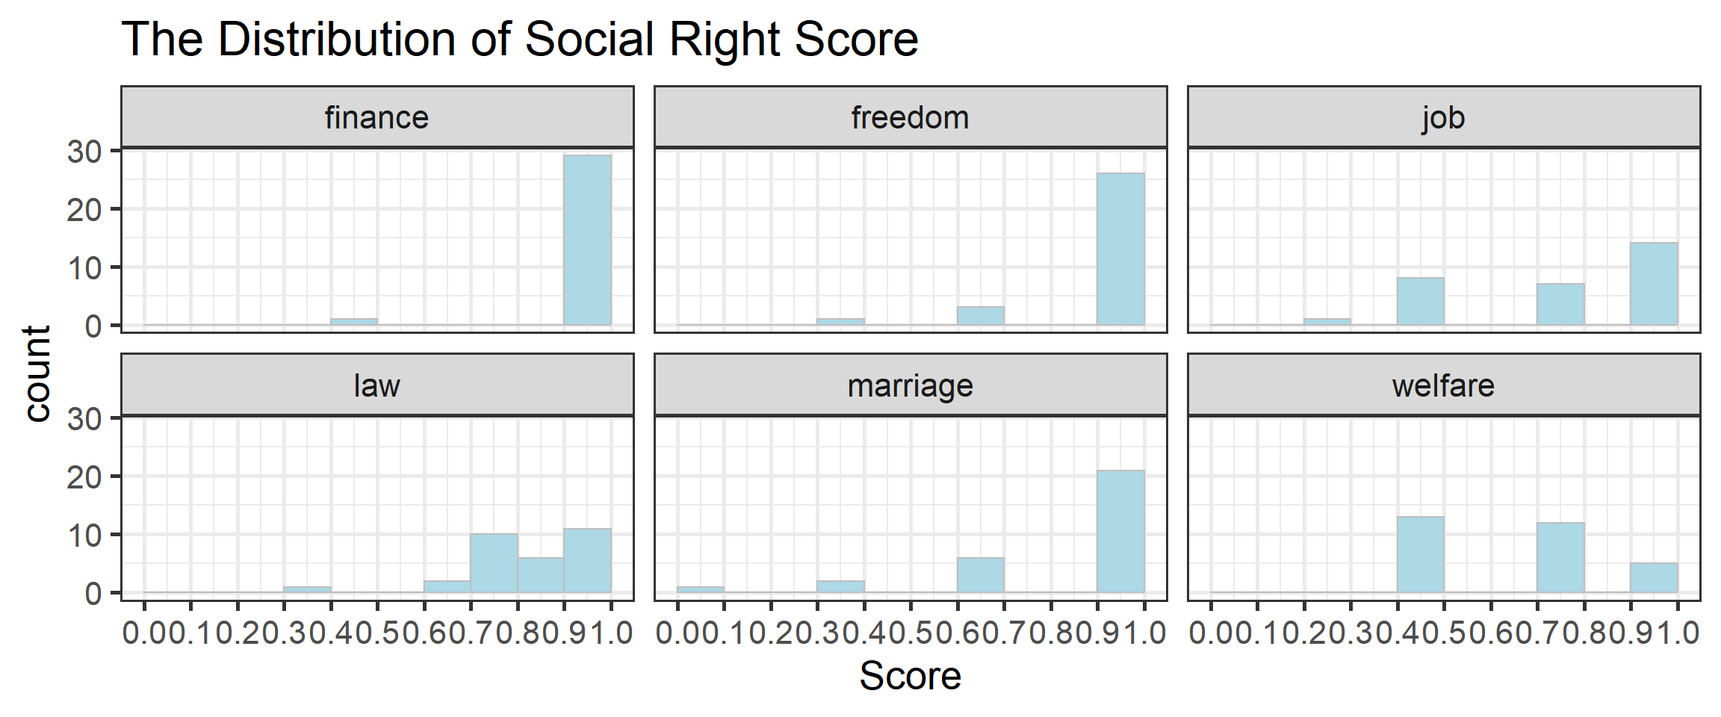
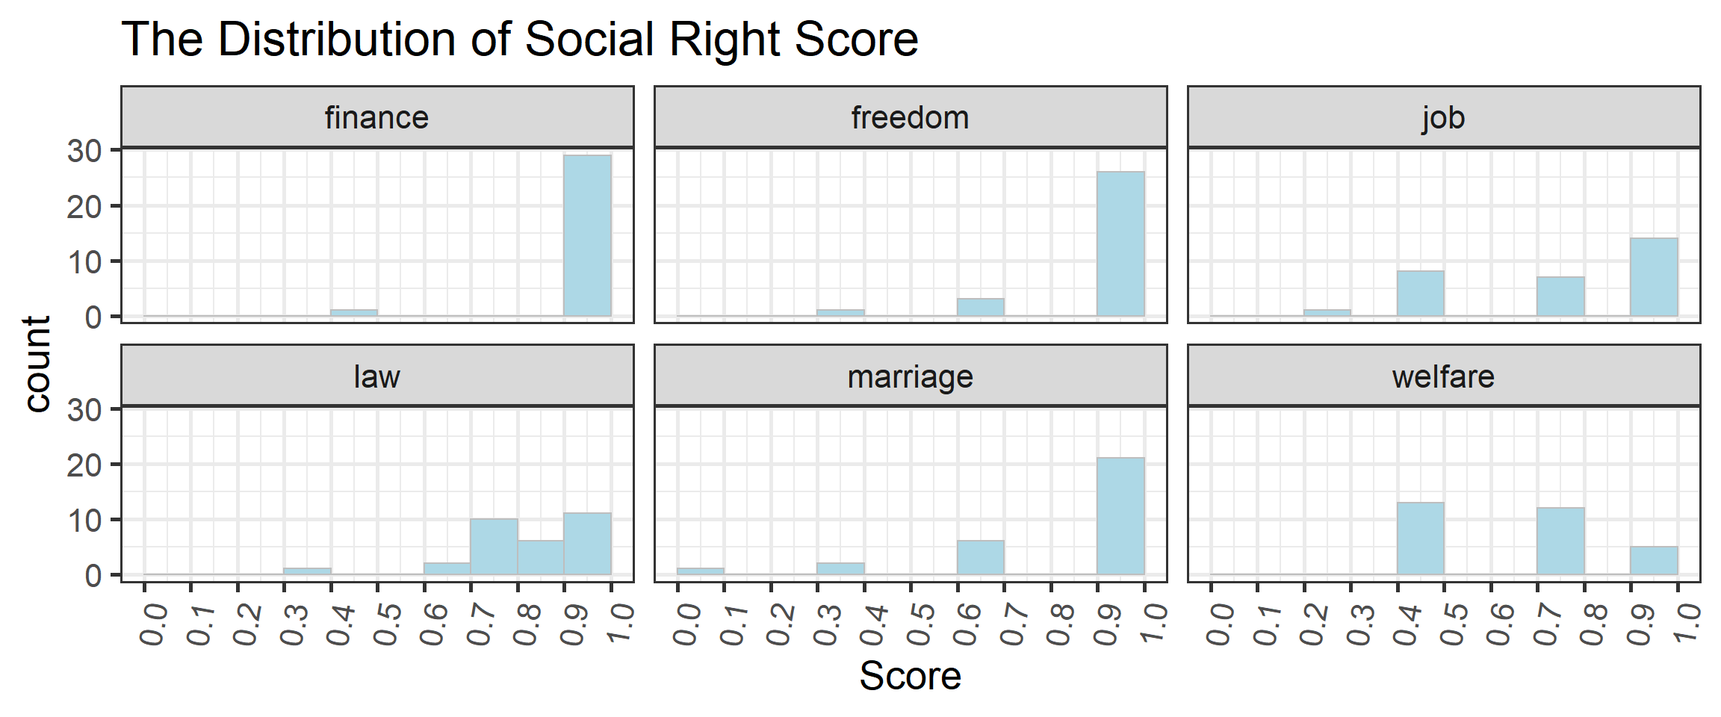
Added angle to fig 2 for social rights

diff --git a/docs/results.html b/docs/results.html
@@ -120,18 +120,18 @@
 <h2><span class="header-section-number">5.1</span> Social Rights</h2>
 <p>To discuss the social rights for women in the world these years.</p>
 <p>To explore the details about the social rights, the heatmap is a good choice. The y axis is ordered by the average scores of countries from high to low. The x axis is ordered by the average scores of the topics.</p>
-<p><img src="finalproj_files/figure-html/unnamed-chunk-17-1.png" width="1152" /></p>
+<p><img src="finalproj_files/figure-html/unnamed-chunk-5-1.png" width="1152" /></p>
 <p>We can see that Iceland, Canada and New Zealand actually both achieved a score of 1 in 6 topics, meaning that there are no gender discrimination in the social rights aspect in these three countries. Compared to that, Niger has no score of 1 in every topic, meaning there is still some significant gender discrepancies there, especially for marriage where the score is close to 0. This means men have more power to dominate the marriage in Niger. Another point worth paying attention to is that jobs also have a very low score in Ukraine while other scores are quite high, meaning that women face more significant gender discrimination in the workplace as opposed to other social aspects there.</p>
 <p>Moreover, there are some countries have really similar social rights conditions for women. For example, Canada and Iceland and New Zealand, United States and Mexico, Nicaragua and Lithuania, Zimbabwe and El Salvador, Fiji and Colombia, China and Belarus, Russian Federation and Papua New Guinea. We will discuss what kinds of factor contributes to the distribution of the scores like this.</p>
 <p>Generally, women tend to have the same rights as the men in the finance aspect since only 1 country did not achieve 1 in finance. For the freedom part, only 4 countries did not achieve 1, meaning that the majority of the countries do not keep women from doing something which men can do. However, in terms of the social welfare, the women tend to have a worse welfare guaranteed compared to men in these years with only 5 countries achieving score 1. As for law, marriage and job, different countries have a wide variety of different conditions.</p>
-<p><img src="finalproj_files/figure-html/unnamed-chunk-18-1.png" width="1152" /></p>
+<p><img src="finalproj_files/figure-html/unnamed-chunk-6-1.png" width="1152" /></p>
 <p>Since the heatmap do not show the detailed score distribution of topics clearly. We can explore the general distribution more carefully by looking at the bar charts. We can see that for the finance part ad freedom part, the majorities of countries has a score of 1. For the job aspect, we can see that except for the score 1 and the outlier laying between 0.2 to 0.3, there are two clusters of countries distributed in the range of 0.4-0.5 and 0.7-0.8, meaning there is a gap (0.5-0.7) between the countries for the women social status in the job aspect. For law, we can see the range of the clusters are nested in the right corner except the outlier laying between 0.3 to 0.4, meaning the general scores are high in the law aspect and the difference of the condition are small between the countries. For marriage, only 3 countries are outliers, and the majority countries are landed in score 1 with approximately 7 countries having 0.6-0.7 scores. For welfare, we can see there are mainly 3 clusters, for 0.4-0.5, 0.7-0.8, 0.9-1.0 respectively. And nearly halves are in 0.4-0.5 and another halves are in 0.7-0.8. It shows that the general condition in the world is that the women have worse welfare compared to men. And there is a treatment gap (0.5-0.7) between the countries in two clusters.</p>
-<p><img src="finalproj_files/figure-html/unnamed-chunk-19-1.png" width="1152" /></p>
+<p><img src="finalproj_files/figure-html/unnamed-chunk-7-1.png" width="1152" /></p>
 <p>The labels are ordered according to the average score of 30 countries in the 2020.</p>
 <p>We can see the general trend of the women social rights in different topics from the curve plot.
 In the recent 40 years, the general trend for the women rights is increasing for every topic. And the increase started formally at around 1987-1990 for every topic. The law curve grew most rapidly from around 0.56 to 0.86, exceeding the score of job in 2020. Although the welfare score was low at the beginning, it also grew very rapidly from around 0.45 to 0.68. The growth pattern of the finance and freedom are similar, so we hypothesize that they are somehow correlated. Job and marriage seems to follow a similar trend to finance and freedom. Therefore, the gender discrimination problem is disappearing and it is most obvious in the welfare and law aspects.</p>
-<div class="parcoords html-widget" height="480" id="htmlwidget-5d998db5049d6f4f0c84" style="width:1152px;height:480px; position:relative; overflow-x:auto; overflow-y:hidden; max-width:100%;" width="1152"></div>
-<script type="application/json" data-for="htmlwidget-5d998db5049d6f4f0c84">{"x":{"data":{"names":["1","2","3","4","5","6","7","8","9","10","11","12","13","14","15","16","17","18","19","20","21","22","23","24","25","26","27","28","29","30"],"Continent":["South_America","Oceania","Europe","South_America","North_America","South_America","Asia","South_America","Africa","North_America","Oceania","Europe","Asia","Asia","Europe","Asia","North_America","Oceania","North_America","Africa","Africa","Oceania","Europe","Oceania","Africa","Asia","Europe","North_America","South_America","Africa"],"log_GDP":[26.8223400178325,27.965038208816,24.8676768441428,28.2406551793187,28.1828498804103,26.3663004979607,30.2942763717853,26.5028234010681,23.2302105340893,24.019940870109,22.4273320047847,23.9091240699607,29.2566806519785,28.1298182179207,24.7238016424395,26.6222898436059,27.869148272001,26.0556404431791,23.2506663062708,23.2813989131287,26.8283278476542,23.9352824717066,28.1615767636913,20.5633906930779,24.8692072269155,27.0213856405872,25.7587957987837,30.6959634507154,24.7494370659286,23.7885595643138],"job":[0.5,1,0.5,1,1,1,0.5,0.75,0.5,1,0.75,1,0.75,0.5,1,0.75,1,1,1,0.5,0.75,0.5,0.5,1,1,0.75,0.25,1,0.75,1],"law":[0.875,1,0.75,0.75,1,0.75,0.75,0.875,0.375,1,0.875,1,0.75,0.875,1,0.75,1,1,1,0.75,0.75,0.625,0.625,0.75,0.75,0.875,1,1,0.875,1],"marriage":[1,1,1,1,1,0.666666666666667,1,1,0.333333333333333,0.666666666666667,1,1,0.666666666666667,1,1,0.333333333333333,1,1,1,0,1,1,1,1,1,0.666666666666667,1,1,0.666666666666667,0.666666666666667],"welfare":[0.5,0.75,0.5,0.75,1,0.75,0.5,0.5,0.75,0.75,0.5,1,1,0.75,0.5,0.5,0.75,1,0.5,0.75,0.5,0.5,0.5,0.5,0.75,0.5,0.75,0.75,1,0.75]},"options":{"rownames":false,"color":{"colorScale":"scaleOrdinal","colorBy":"Continent","colorScheme":["#009E73","#F0E442","#0072B2","#D55E00","#CC79A7"]},"brushMode":"1D-axes","brushPredicate":"AND","reorderable":true,"margin":{"top":50,"bottom":50,"left":100,"right":50},"alpha":0.5,"mode":false,"bundlingStrength":0.5,"smoothness":0},"autoresize":false,"tasks":null},"evals":[],"jsHooks":[]}</script>
+<div class="parcoords html-widget" height="480" id="htmlwidget-164ebf1c3526cbf701d4" style="width:1152px;height:480px; position:relative; overflow-x:auto; overflow-y:hidden; max-width:100%;" width="1152"></div>
+<script type="application/json" data-for="htmlwidget-164ebf1c3526cbf701d4">{"x":{"data":{"names":["1","2","3","4","5","6","7","8","9","10","11","12","13","14","15","16","17","18","19","20","21","22","23","24","25","26","27","28","29","30"],"Continent":["South_America","Oceania","Europe","South_America","North_America","South_America","Asia","South_America","Africa","North_America","Oceania","Europe","Asia","Asia","Europe","Asia","North_America","Oceania","North_America","Africa","Africa","Oceania","Europe","Oceania","Africa","Asia","Europe","North_America","South_America","Africa"],"log_GDP":[26.8223400178325,27.965038208816,24.8676768441428,28.2406551793187,28.1828498804103,26.3663004979607,30.2942763717853,26.5028234010681,23.2302105340893,24.019940870109,22.4273320047847,23.9091240699607,29.2566806519785,28.1298182179207,24.7238016424395,26.6222898436059,27.869148272001,26.0556404431791,23.2506663062708,23.2813989131287,26.8283278476542,23.9352824717066,28.1615767636913,20.5633906930779,24.8692072269155,27.0213856405872,25.7587957987837,30.6959634507154,24.7494370659286,23.7885595643138],"job":[0.5,1,0.5,1,1,1,0.5,0.75,0.5,1,0.75,1,0.75,0.5,1,0.75,1,1,1,0.5,0.75,0.5,0.5,1,1,0.75,0.25,1,0.75,1],"law":[0.875,1,0.75,0.75,1,0.75,0.75,0.875,0.375,1,0.875,1,0.75,0.875,1,0.75,1,1,1,0.75,0.75,0.625,0.625,0.75,0.75,0.875,1,1,0.875,1],"marriage":[1,1,1,1,1,0.666666666666667,1,1,0.333333333333333,0.666666666666667,1,1,0.666666666666667,1,1,0.333333333333333,1,1,1,0,1,1,1,1,1,0.666666666666667,1,1,0.666666666666667,0.666666666666667],"welfare":[0.5,0.75,0.5,0.75,1,0.75,0.5,0.5,0.75,0.75,0.5,1,1,0.75,0.5,0.5,0.75,1,0.5,0.75,0.5,0.5,0.5,0.5,0.75,0.5,0.75,0.75,1,0.75]},"options":{"rownames":false,"color":{"colorScale":"scaleOrdinal","colorBy":"Continent","colorScheme":["#009E73","#F0E442","#0072B2","#D55E00","#CC79A7"]},"brushMode":"1D-axes","brushPredicate":"AND","reorderable":true,"margin":{"top":50,"bottom":50,"left":100,"right":50},"alpha":0.5,"mode":false,"bundlingStrength":0.5,"smoothness":0},"autoresize":false,"tasks":null},"evals":[],"jsHooks":[]}</script>
 <p>Since we have more variations in score for job, welfare, marriage and law aspects. We will only explore what potential factors influenced these variations.</p>
 <p>Also, since some countries’ GDP are extremely high, making other countries’ GDP hard to see in the parallel coordinates, We used the log to scale the GDP, which will not influence the absolute rank of the GDP.</p>
 <p>We can drag the GDP or Continent coordinates to see the correlation between the GDP or Continent and other factors we are interested in. And also we can select the range of the coordinates from top to bottom to see how the gender discrimination condition will vary when the GDP is high or the Continent is specified.</p>
@@ -147,14 +147,14 @@ In the recent 40 years, the general trend for the women rights is increasing for
 </div>
 <div id="education-1" class="section level2">
 <h2><span class="header-section-number">5.2</span> Education</h2>
-<p><img src="finalproj_files/figure-html/unnamed-chunk-25-1.png" width="1152" /></p>
+<p><img src="finalproj_files/figure-html/unnamed-chunk-13-1.png" width="1152" /></p>
 <p>First, we want to focus on the difference between female and male in education status, thus using a bar plot is a good choice as it clearly shows the differences between these two groups in each category. This bar plot shows the proportion in female and male population over 25 years old based on education levels they at least complete. We divided the education levels into three categories: primary(grade 1-6), lower secondary(grade 7-12) and post secondary(all education after high school). In order to reduce the influences of missing values, We took the average of 30 countries in our sample during the recent 10 years. Thus this plot shows the overall education status in female and male population instead of focusing on a specific location or a specific year.</p>
 <p>By observing the plot, the proportion decreases for both female and male population as the education level becomes higher. Over 80 percent female and male completed at least a primary level education, and over 60 percent of each population completed at least the lower secondary, while only less than 30 percent completed the post secondary education. This observation is consistent with our common sense: there will be less proportion of people in higher education.</p>
 <p>Moreover, the data of female and male groups tend to have small difference in all three education levels. In the first two categories, primary and lower education, male population showed higher proportion of people completing this education level than female population, whereas in the last category, the plot showed there are higher proportion of female who graduated from a post secondary school than males. If we look at the scale of difference in the first two group, the difference in the lower secondary is smaller than the difference in primary. Thus, based on these two observations, we find that males tend to have more opportunities to take a basic level education than females. Also, among the population that completed the previous level of education, relative more females complete the next level education than males.</p>
-<p><img src="finalproj_files/figure-html/unnamed-chunk-30-1.png" width="1152" /></p>
+<p><img src="finalproj_files/figure-html/unnamed-chunk-18-1.png" width="1152" /></p>
 <p>This line plot shows us how the percentage of female graduates in different study areas changed over the 20 years (1998 - 2018). The reason to not include the year 2019 and 2020 is because of the high number of missing values in these two years. As we can see, there are big differences between different majors. For example, there are always more than 70 percent of female graduates from Education and only about 30 percent of female graduates from STEM majors. The different study area also shows various trends. We see slightly decreasing trends in Education, Art &amp; Humanities and STEM majors, and overall increasing in Business &amp; Law and Agriculture &amp; Forest. The percentage of female graduates in Services increased a lot before 2005 and later decreased in recent years, but overall, it still shows an increasing trend. Based on the plot, there seems to still have some gender differences among the various subject areas.</p>
-<div class="parcoords html-widget" height="480" id="htmlwidget-0cc11cb454297d032da4" style="width:672px;height:480px; position:relative; overflow-x:auto; overflow-y:hidden; max-width:100%;" width="672"></div>
-<script type="application/json" data-for="htmlwidget-0cc11cb454297d032da4">{"x":{"data":{"names":["1","2","3","4","5","6","7","8","9","10","11","12","13","14","15","16","17","18","19","20","21","22","23","24","25","26","27","28"],"Continent":["South America","Oceania","Europe","South America","North America","South America","Asia","South America","Africa","North America","Oceania","Europe","Asia","Europe","Asia","North America","Oceania","North America","Africa","Oceania","Europe","Oceania","Africa","Asia","Europe","North America","South America","Africa"],"GDP.log.in.billion.":[5.8970263476716,6.7971798035379,3.68484759091516,7.25221503303476,7.13198692090229,5.12843651758385,8.59906260897252,5.3523845064891,2.15122545420117,2.84118284680441,1.1867354528336,2.68856736409307,6.92828474314109,3.4255316432467,5.31221382353259,6.82401509138406,4.84191770946845,2.09800845041016,1.8590999993695,2.47581119837165,6.99371739455326,-0.623219276151283,3.34208456563775,5.62824772642364,4.58460789997057,9.54225197535561,3.53106330274393,2.44934566097332],"FertilityRate":[2.43658333333333,1.82545833333333,1.43170833333333,2.02125,1.5678375,1.9415,1.62854166666667,2.23770833333333,4.76608333333333,2.59004166666667,2.91508333333333,1.99791666666667,1.25995833333333,1.47166666666667,2.42516666666667,2.493,1.98625,2.84066666666667,7.485375,4.16216666666667,1.44445833333333,4.35870833333333,5.48016666666667,1.60933333333333,1.33004166666667,1.96172916666667,2.116875,3.868],"EducationSpend":[4.70527718180702,5.05760627985001,5.23994528452555,5.08032602071762,5.20886913935343,3.8774923369998,1.85691997408867,4.29117521785554,3.90205000747334,3.58220000016062,5.22575464615455,6.96782955256375,3.50148999691009,4.95891904830933,5.34897433156553,4.63415522802444,6.37887902486892,3.40488803386688,2.97111948728561,1.94791001081466,3.76445497785296,4.0955483118693,3.50141156636752,4.1215884309066,5.61832685219614,4.94639492034912,3.16752641541617,5.23978825410207],"RuralPop":[4.68712165757849,5.84195287622203,14.7694464846825,8.38273290612207,9.69315413901883,5.94231660613512,27.5501644651392,12.4690072558783,20.0017699594292,19.7294539183688,24.3169005362406,3.17161985773498,9.72729165956753,17.3026681997539,16.9045529902857,12.0444564296691,6.81881980993819,21.2775420326463,41.4802471984331,42.8695707560153,13.8600957480355,38.1754285259132,37.3284224698845,30.833383782074,17.1363306253587,10.0408347198683,2.96503041290112,34.5874138889395],"ExpSchoolYear":[17.516713142395,21.3169531141009,15.8470525741577,14.2481650114059,16.2793730006499,14.8743765354157,11.9247079849243,13.3421071824573,9.06539026896157,12.0150789987473,13.9260549545289,19.1056343576182,15.3506669998169,16.160232424736,13.0989675045014,12.9464337428411,19.039083480835,11.1723499298096,3.93909157239474,4.54643511772156,14.9167728424072,12.4324998855591,7.31349284308297,13.5644879341126,14.6789755821228,16.5566927302967,15.7834986580743,10.2883400235857]},"options":{"rownames":false,"color":{"colorBy":"Continent","colorScale":"scaleOrdinal","colorScheme":["#0c2d98","#78411f","#df5f5b","#2b74e2","#3bccf6","#f4cf60"]},"brushMode":"1D-axes","brushPredicate":"AND","reorderable":true,"margin":{"top":50,"bottom":50,"left":100,"right":50},"alpha":0.5,"mode":"queue","bundlingStrength":0.5,"smoothness":0},"autoresize":true,"tasks":null},"evals":[],"jsHooks":[]}</script>
+<div class="parcoords html-widget" height="480" id="htmlwidget-94216c26e6df54630433" style="width:672px;height:480px; position:relative; overflow-x:auto; overflow-y:hidden; max-width:100%;" width="672"></div>
+<script type="application/json" data-for="htmlwidget-94216c26e6df54630433">{"x":{"data":{"names":["1","2","3","4","5","6","7","8","9","10","11","12","13","14","15","16","17","18","19","20","21","22","23","24","25","26","27","28"],"Continent":["South America","Oceania","Europe","South America","North America","South America","Asia","South America","Africa","North America","Oceania","Europe","Asia","Europe","Asia","North America","Oceania","North America","Africa","Oceania","Europe","Oceania","Africa","Asia","Europe","North America","South America","Africa"],"GDP.log.in.billion.":[5.8970263476716,6.7971798035379,3.68484759091516,7.25221503303476,7.13198692090229,5.12843651758385,8.59906260897252,5.3523845064891,2.15122545420117,2.84118284680441,1.1867354528336,2.68856736409307,6.92828474314109,3.4255316432467,5.31221382353259,6.82401509138406,4.84191770946845,2.09800845041016,1.8590999993695,2.47581119837165,6.99371739455326,-0.623219276151283,3.34208456563775,5.62824772642364,4.58460789997057,9.54225197535561,3.53106330274393,2.44934566097332],"FertilityRate":[2.43658333333333,1.82545833333333,1.43170833333333,2.02125,1.5678375,1.9415,1.62854166666667,2.23770833333333,4.76608333333333,2.59004166666667,2.91508333333333,1.99791666666667,1.25995833333333,1.47166666666667,2.42516666666667,2.493,1.98625,2.84066666666667,7.485375,4.16216666666667,1.44445833333333,4.35870833333333,5.48016666666667,1.60933333333333,1.33004166666667,1.96172916666667,2.116875,3.868],"EducationSpend":[4.70527718180702,5.05760627985001,5.23994528452555,5.08032602071762,5.20886913935343,3.8774923369998,1.85691997408867,4.29117521785554,3.90205000747334,3.58220000016062,5.22575464615455,6.96782955256375,3.50148999691009,4.95891904830933,5.34897433156553,4.63415522802444,6.37887902486892,3.40488803386688,2.97111948728561,1.94791001081466,3.76445497785296,4.0955483118693,3.50141156636752,4.1215884309066,5.61832685219614,4.94639492034912,3.16752641541617,5.23978825410207],"RuralPop":[4.68712165757849,5.84195287622203,14.7694464846825,8.38273290612207,9.69315413901883,5.94231660613512,27.5501644651392,12.4690072558783,20.0017699594292,19.7294539183688,24.3169005362406,3.17161985773498,9.72729165956753,17.3026681997539,16.9045529902857,12.0444564296691,6.81881980993819,21.2775420326463,41.4802471984331,42.8695707560153,13.8600957480355,38.1754285259132,37.3284224698845,30.833383782074,17.1363306253587,10.0408347198683,2.96503041290112,34.5874138889395],"ExpSchoolYear":[17.516713142395,21.3169531141009,15.8470525741577,14.2481650114059,16.2793730006499,14.8743765354157,11.9247079849243,13.3421071824573,9.06539026896157,12.0150789987473,13.9260549545289,19.1056343576182,15.3506669998169,16.160232424736,13.0989675045014,12.9464337428411,19.039083480835,11.1723499298096,3.93909157239474,4.54643511772156,14.9167728424072,12.4324998855591,7.31349284308297,13.5644879341126,14.6789755821228,16.5566927302967,15.7834986580743,10.2883400235857]},"options":{"rownames":false,"color":{"colorBy":"Continent","colorScale":"scaleOrdinal","colorScheme":["#0c2d98","#78411f","#df5f5b","#2b74e2","#3bccf6","#f4cf60"]},"brushMode":"1D-axes","brushPredicate":"AND","reorderable":true,"margin":{"top":50,"bottom":50,"left":100,"right":50},"alpha":0.5,"mode":"queue","bundlingStrength":0.5,"smoothness":0},"autoresize":true,"tasks":null},"evals":[],"jsHooks":[]}</script>
 <p>In this plot, we mainly focused on the factors related to women social status. The above parallel coordinates plot shows the relation between 6 parameters by using the data from 30 countries, 5 in each continent, after taking average of recent 25 years. These parameters are continent, GDP, fertility rate, government expenditure on education (% of GDP), female rural population (percentage) and expected schooling year for female.</p>
 <p>Here are some observations from this plot:</p>
 <ol style="list-style-type: decimal">
@@ -168,14 +168,14 @@ In the recent 40 years, the general trend for the women rights is increasing for
 </div>
 <div id="employment-1" class="section level2">
 <h2><span class="header-section-number">5.3</span> Employment</h2>
-<p><img src="finalproj_files/figure-html/unnamed-chunk-33-1.png" width="960" />
+<p><img src="finalproj_files/figure-html/unnamed-chunk-21-1.png" width="960" />
 The figure above for the average employment ratio by sex between 2010-2019 is ordered in descending order by male employment ratio. The purpose of this ordering is to list countries with high male employment ratios first and visualize whether or not the female employment ratios match up. Out of the 30 countries selected for the study, it is very telling that a lower female employment ratio fairly universal. The actual differences between male/female employment ratio varies drastically by country. From the figure above, it is clear that the issue is much more pronounced in countries like Samoa, Mexico, and Malaysia (among others) as opposed to countries like Canada, Congo, Rep., and Iceland. Whether or not the differences between the ratio of male/female employment varies by continent is explored in another figure below.
-<img src="finalproj_files/figure-html/unnamed-chunk-34-1.png" width="960" />
+<img src="finalproj_files/figure-html/unnamed-chunk-22-1.png" width="960" />
 The figure above for the average proportion of upper/middle management by sex is ordered in descending order by male upper/middle managers. The purpose of this ordering is to list countries with the biggest discrepancy in male/female manager ratio first, which can serve as a signal for gender discrepancies in employment opportunities. The countries on the figure without data points are countries where there is no data related to this area. These missing countries were kept within the figure to signify the fact that the International Labor Organization was unable to obtain any data related to this issue from numerous countries over a 10-year span. Even without 12 of the 30 randomly selected nations from the study, there appears to be a trend that people in upper/middle management are male the vast majority of the time in almost all countries with the exception of Nicaragua (in the sample). An interesting note is that although Papua New Guinea has a near equal proportion of female employment to male employment, upper/middle managers in that country are over 75% male. On the other hand, Nicaragua has a much higher male employment ratio than female employment ratio, but most upper/middle managers are female.
-<img src="finalproj_files/figure-html/unnamed-chunk-35-1.png" width="1440" />
+<img src="finalproj_files/figure-html/unnamed-chunk-23-1.png" width="1440" />
 The Women, Business and the Law Score is an index that analyzes laws and regulations that affect women’s economic inclusion in 190 economies. It is composed of eight indicators revolving around women’s interactions with the law as they progress through their careers and make economic decisions. The eight indicators are: mobility, workplace, pay, marriage, parenthood, entrepreneurship, assets, and pension. The index ranges from 1-100 with 100 being the highest score, or equal legal rights with men in measured areas.</p>
 <p>The figure above displays the Women, Business and the Law index scores over a 30-year period faceted by continent with 5 countries per continent. The figure indicates a universal trend upwards in the index score over nearly all countries in every continent, although the degree of improvement varies drastically. For example, countries like the Congo, Rep. saw no improvement since 1900 and Papua New Guinea saw very marginal improvements, whereas countries like Brazil and Lithuania saw drastic improvements over the same time frame. It is very uncommon for the index score to go downwards once it has gone up, although it has happened on occasions like in 2004 for Lithuania, 2014 in Ukraine, and 2008 in China. A significant marker for gender inequality in employment is that only 2 of the 30 selected countries ever achieved a score of 100, signifying equal legal rights with men in the measured areas of the index. Although women’s legal rights in the eight indicator areas have improved worldwide since 1990, there are very few countries where equality is achieved as of now.</p>
-<p><img src="finalproj_files/figure-html/unnamed-chunk-36-1.png" width="960" />
+<p><img src="finalproj_files/figure-html/unnamed-chunk-24-1.png" width="960" />
 The figure above displays the ratio of female to male employment ratio vs. GDP on a log scale for each country color coded by continent. There appears to no correlation overall between a country’s female/male labor force participation rate to the country’s GDP as the data points are scattered throughout as opposed to group along a linear line. However, when looking at individual continents separately, female/male labor force participation rate does seem correlated with GDP in continents like Europe, Africa, and North America (trend is not really observable for Asia, Oceania, and South America). This suggests that the correlation between female/male employment ratio may have a lot to do with geographical location of the country, and depending on the location, the ratio may be correlated with GDP.</p>
 
 </div>
